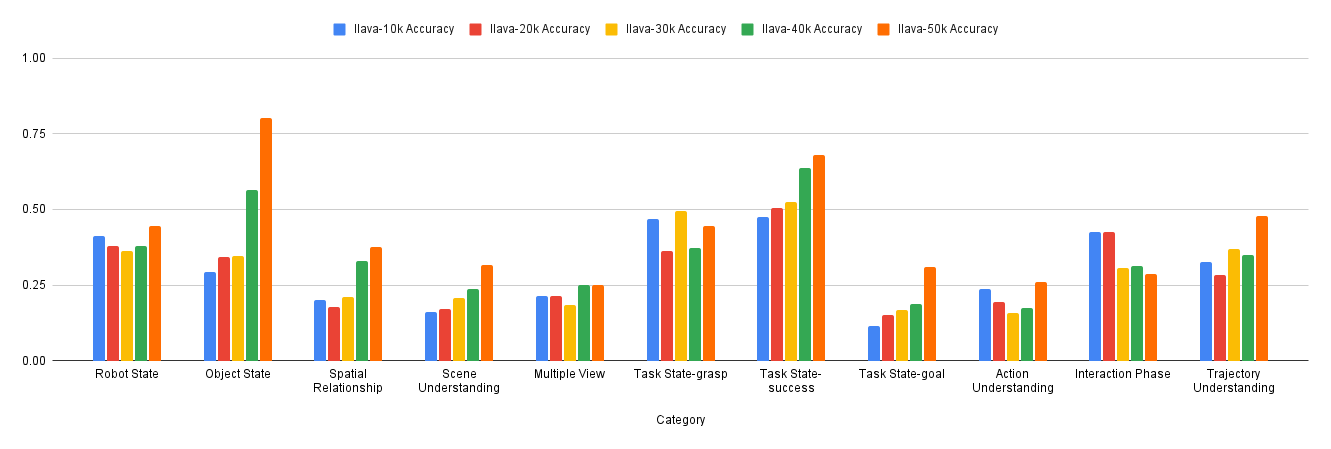
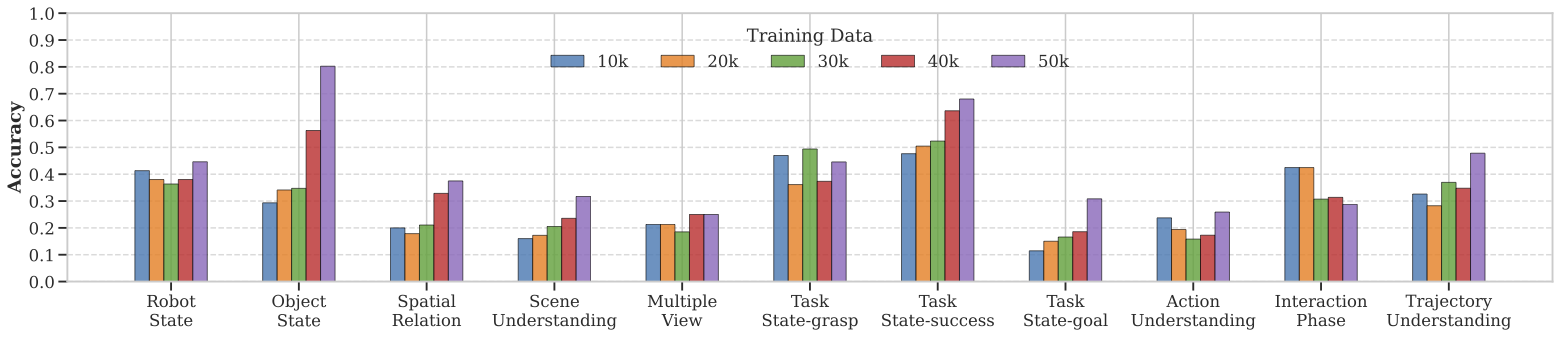
update content

diff --git a/index.html b/index.html
@@ -25,7 +25,7 @@
 
 
   <title>Robo2VLM</title>
-  <link rel="icon" type="image/x-icon" href="static/images/favicon.ico">
+  <link rel="icon" type="image/x-icon" href="static/images/Wizard_Icon.png">
   <link href="https://fonts.googleapis.com/css?family=Google+Sans|Noto+Sans|Castoro"
   rel="stylesheet">
 
@@ -188,6 +188,7 @@
   </div>
 </section>
 
+
 <!-- Dataset Viewer -->
 <section class="section hero is-light">
   <div class="container">
@@ -198,18 +199,96 @@
           <p>
             Explore the Robo2VLM-1 dataset interactively using the Hugging Face dataset viewer below.
           </p>
-          <iframe
-            src="https://huggingface.co/datasets/keplerccc/Robo2VLM-1/embed/viewer/default/train"
-            frameborder="0"
-            width="150%"
-            height="560px"
-            style="display: block; margin: 0 auto; transform: translateX(-25%);"
-          ></iframe>
+          <div style="display: flex; justify-content: center; width: 100%; overflow-x: auto;">
+            <iframe
+              src="https://huggingface.co/datasets/keplerccc/Robo2VLM-1/embed/viewer/default/train"
+              frameborder="0"
+              width="150%"
+              height="560px"
+              style="max-width: 150%;"
+            ></iframe>
+          </div>
         </div>
       </div>
     </div>
   </div>
 </section>
+
+<section class="section hero is-small">
+  <div class="container is-max-desktop">
+    <div class="columns is-centered">
+      <div class="column is-full">
+        <div class="content">
+          <h2 class="title is-3">Question Prototype</h2>
+         <p>
+              <img src="static/images/question-prototype.png" alt="Directional Weight Score" class="blend-img-background center-image" style="max-width: 100%; height: auto;" />
+            </p>
+            <p>
+
+
+
+            </p>
+        </div>
+      </div>
+    </div>
+  </div>
+</section>
+
+
+
+
+
+
+<section class="section hero is-light">
+  <div class="container is-max-desktop">
+    <div class="columns is-centered">
+      <div class="column is-full">
+        <div class="content">
+          <h2 class="title is-3">Robo2VLM-1 Dataset Statistics</h2>
+         <p>
+              <img src="static/images/data_stats.png" alt="Directional Weight Score" class="blend-img-background center-image" style="max-width: 100%; height: auto;" />
+            </p>
+            <p>
+              Distribution and key statistics of Robo2VLM-1 dataset. (Left) Robo2VLM-1covers diverse scenes with the most frequent scenes in office (33.6%), lab (25.3%), and kitchen (16.9\%). (Middle) Robo2VLM-1 covers tasks including common manipulation actions include pick (21.5%), put (20.6%), and move (9.9%). (Right) The table summarizes key dataset statistics including question characteristics, answer choices, and image resolutions.            </p>
+        </div>
+      </div>
+    </div>
+  </div>
+</section>
+
+<section class="section hero is-small">
+  <div class="container is-max-desktop">
+    <div class="columns is-centered">
+      <div class="column is-full">
+        <div class="content">
+          <h2 class="title is-3">Benchmarking VLM Capabilities</h2>
+         <p>
+              <img src="static/images/benchmark-stats.png" alt="Directional Weight Score" class="blend-img-background center-image" style="max-width: 100%; height: auto;" />
+            </p>
+            <p>Performance Comparison of Multimodal Foundation Models on OpenX-VQA Benchmark Categories (%). Upper part: zero-shot. Lower part: with CoT prompting.
+            </p>
+        </div>
+      </div>
+    </div>
+  </div>
+</section>
+
+<section class="section hero is-light">
+  <div class="container is-max-desktop">
+    <div class="columns is-centered">
+      <div class="column is-full">
+        <div class="content">
+          <h2 class="title is-3">Finetuning Results</h2>
+         <p>
+              <img src="static/images/finetune_breakdown.png" alt="Directional Weight Score" class="blend-img-background center-image" style="max-width: 100%; height: auto;" />
+            </p>
+            <p>
+              Fine-tuning LLaVA 1.6 with increasing training data of robo2vlm-1 from 10k to 50k VQA items. Accuracy improvements almost all categories compared to no fine-tuning.        </div>
+      </div>
+    </div>
+  </div>
+</section>
+
 
 <!--BibTex citation -->
   <section class="section" id="BibTeX">
